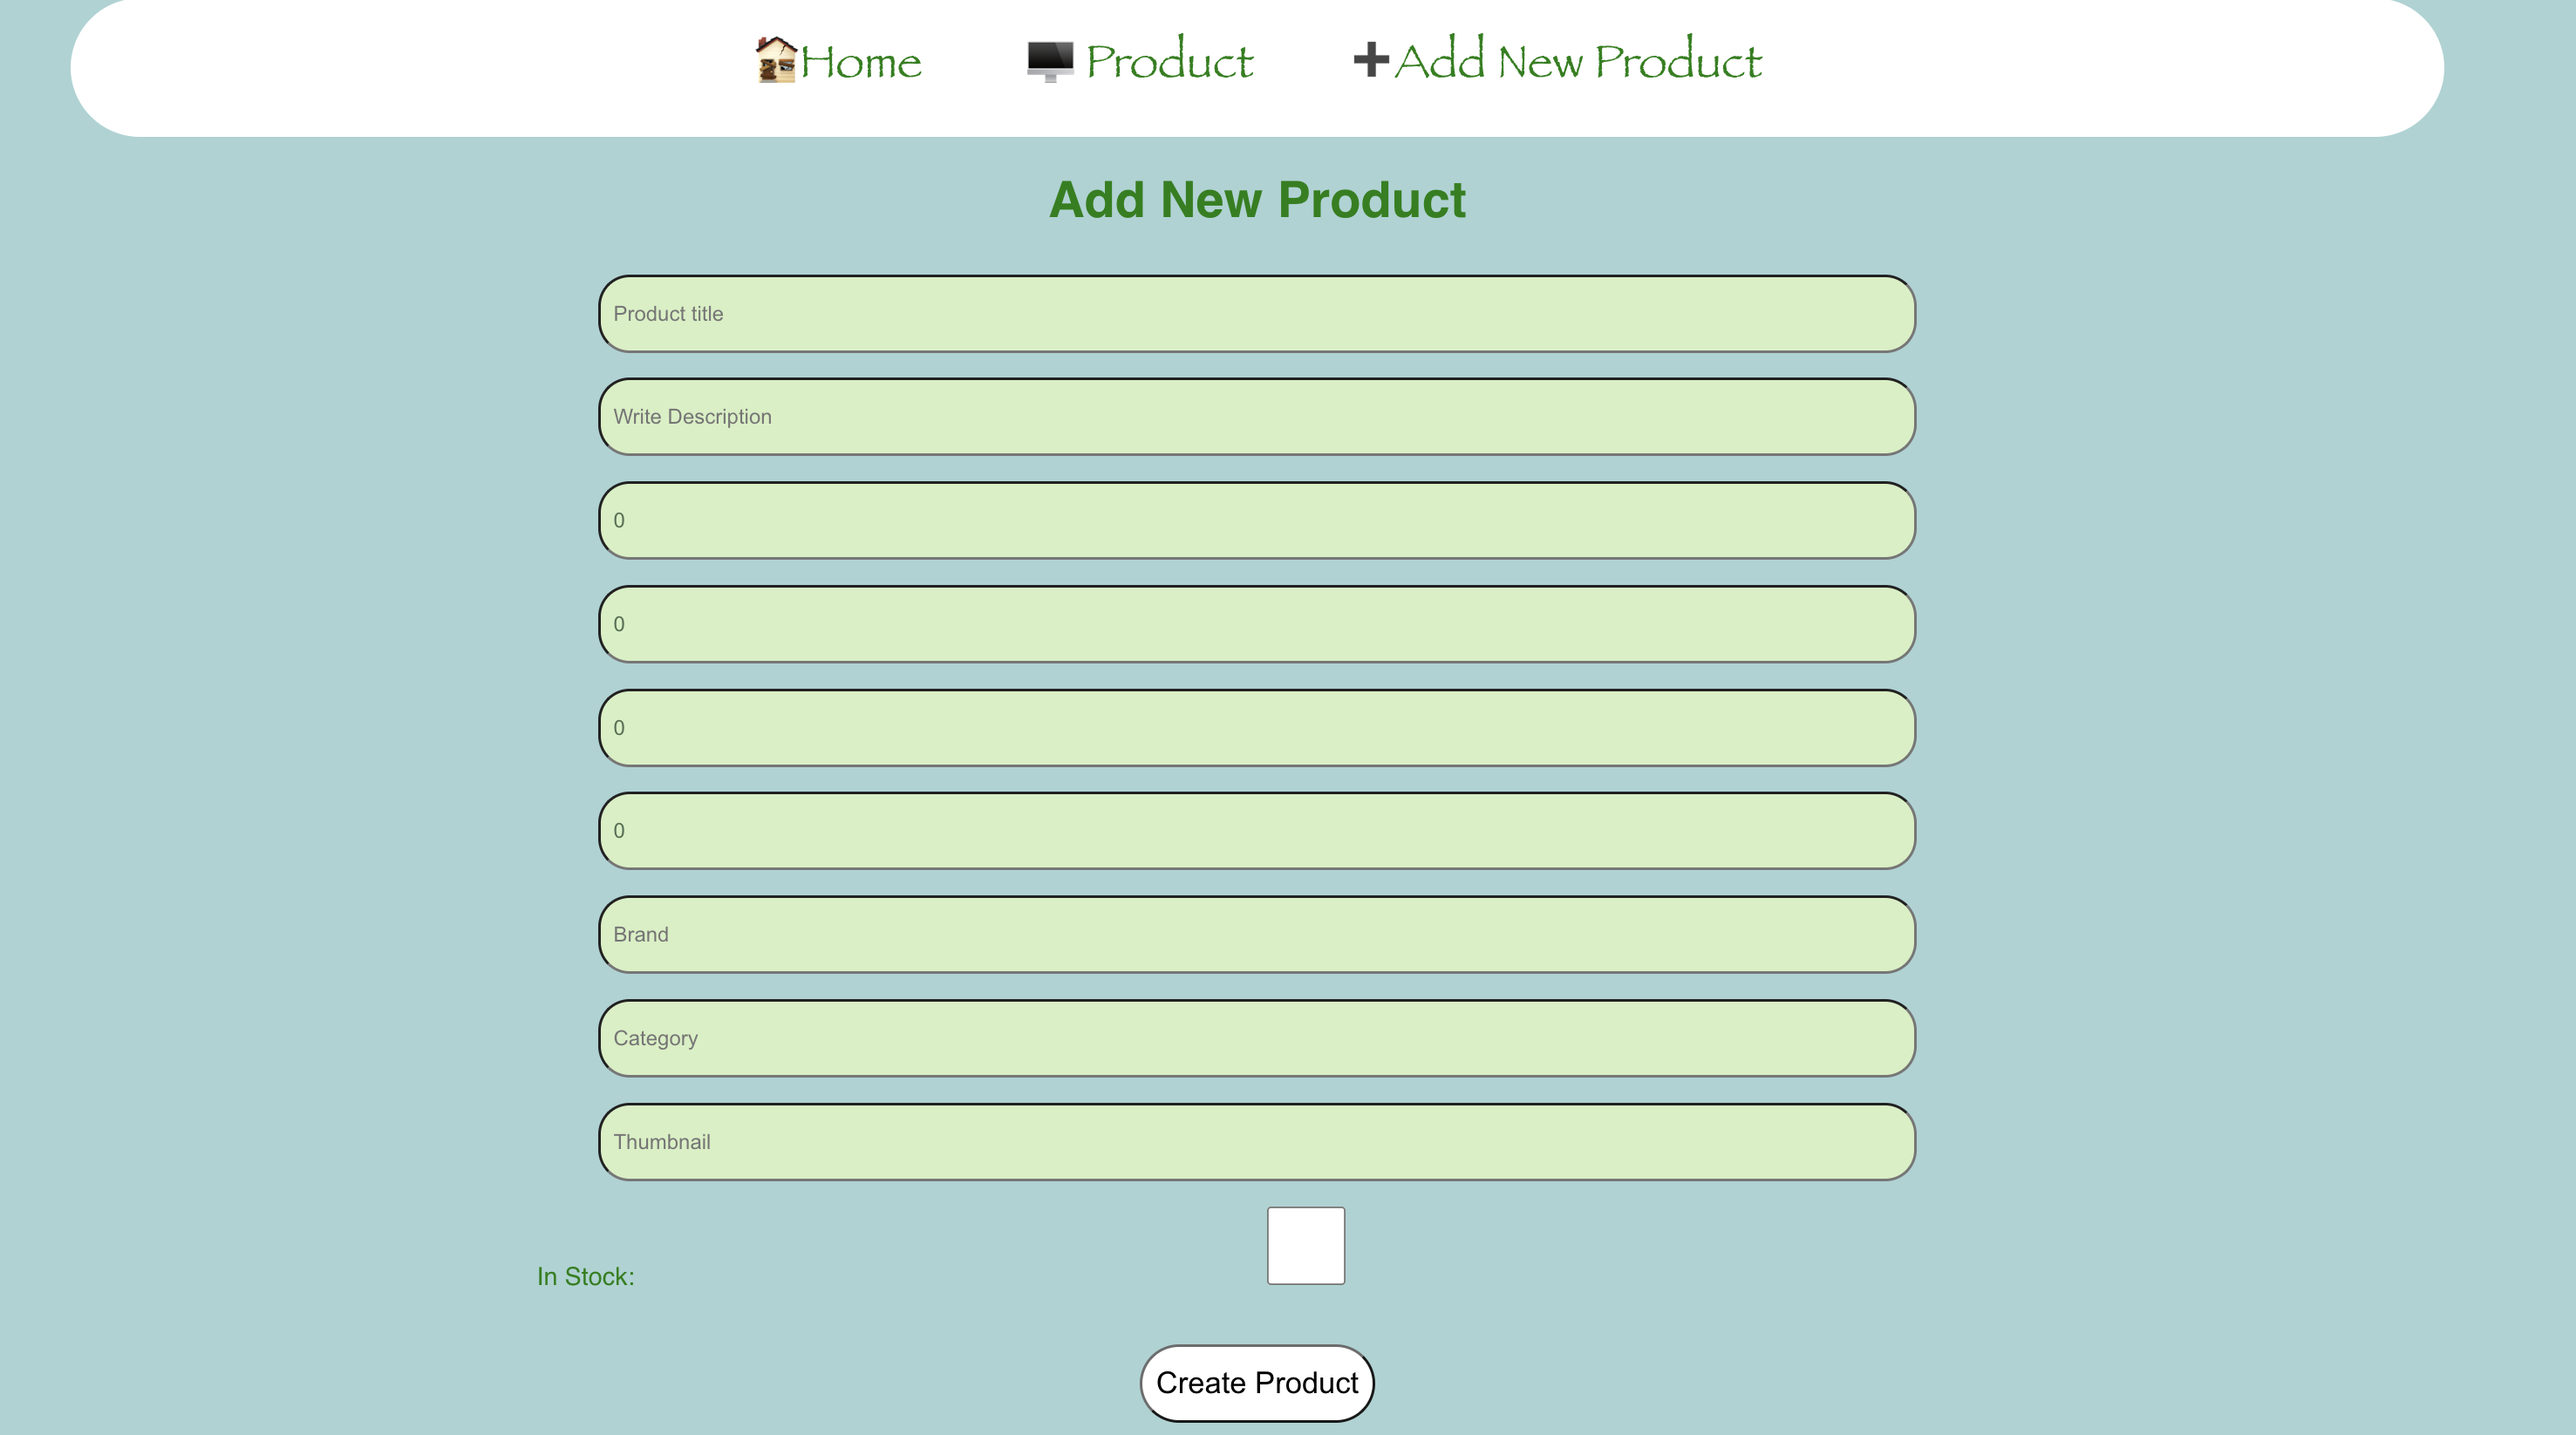
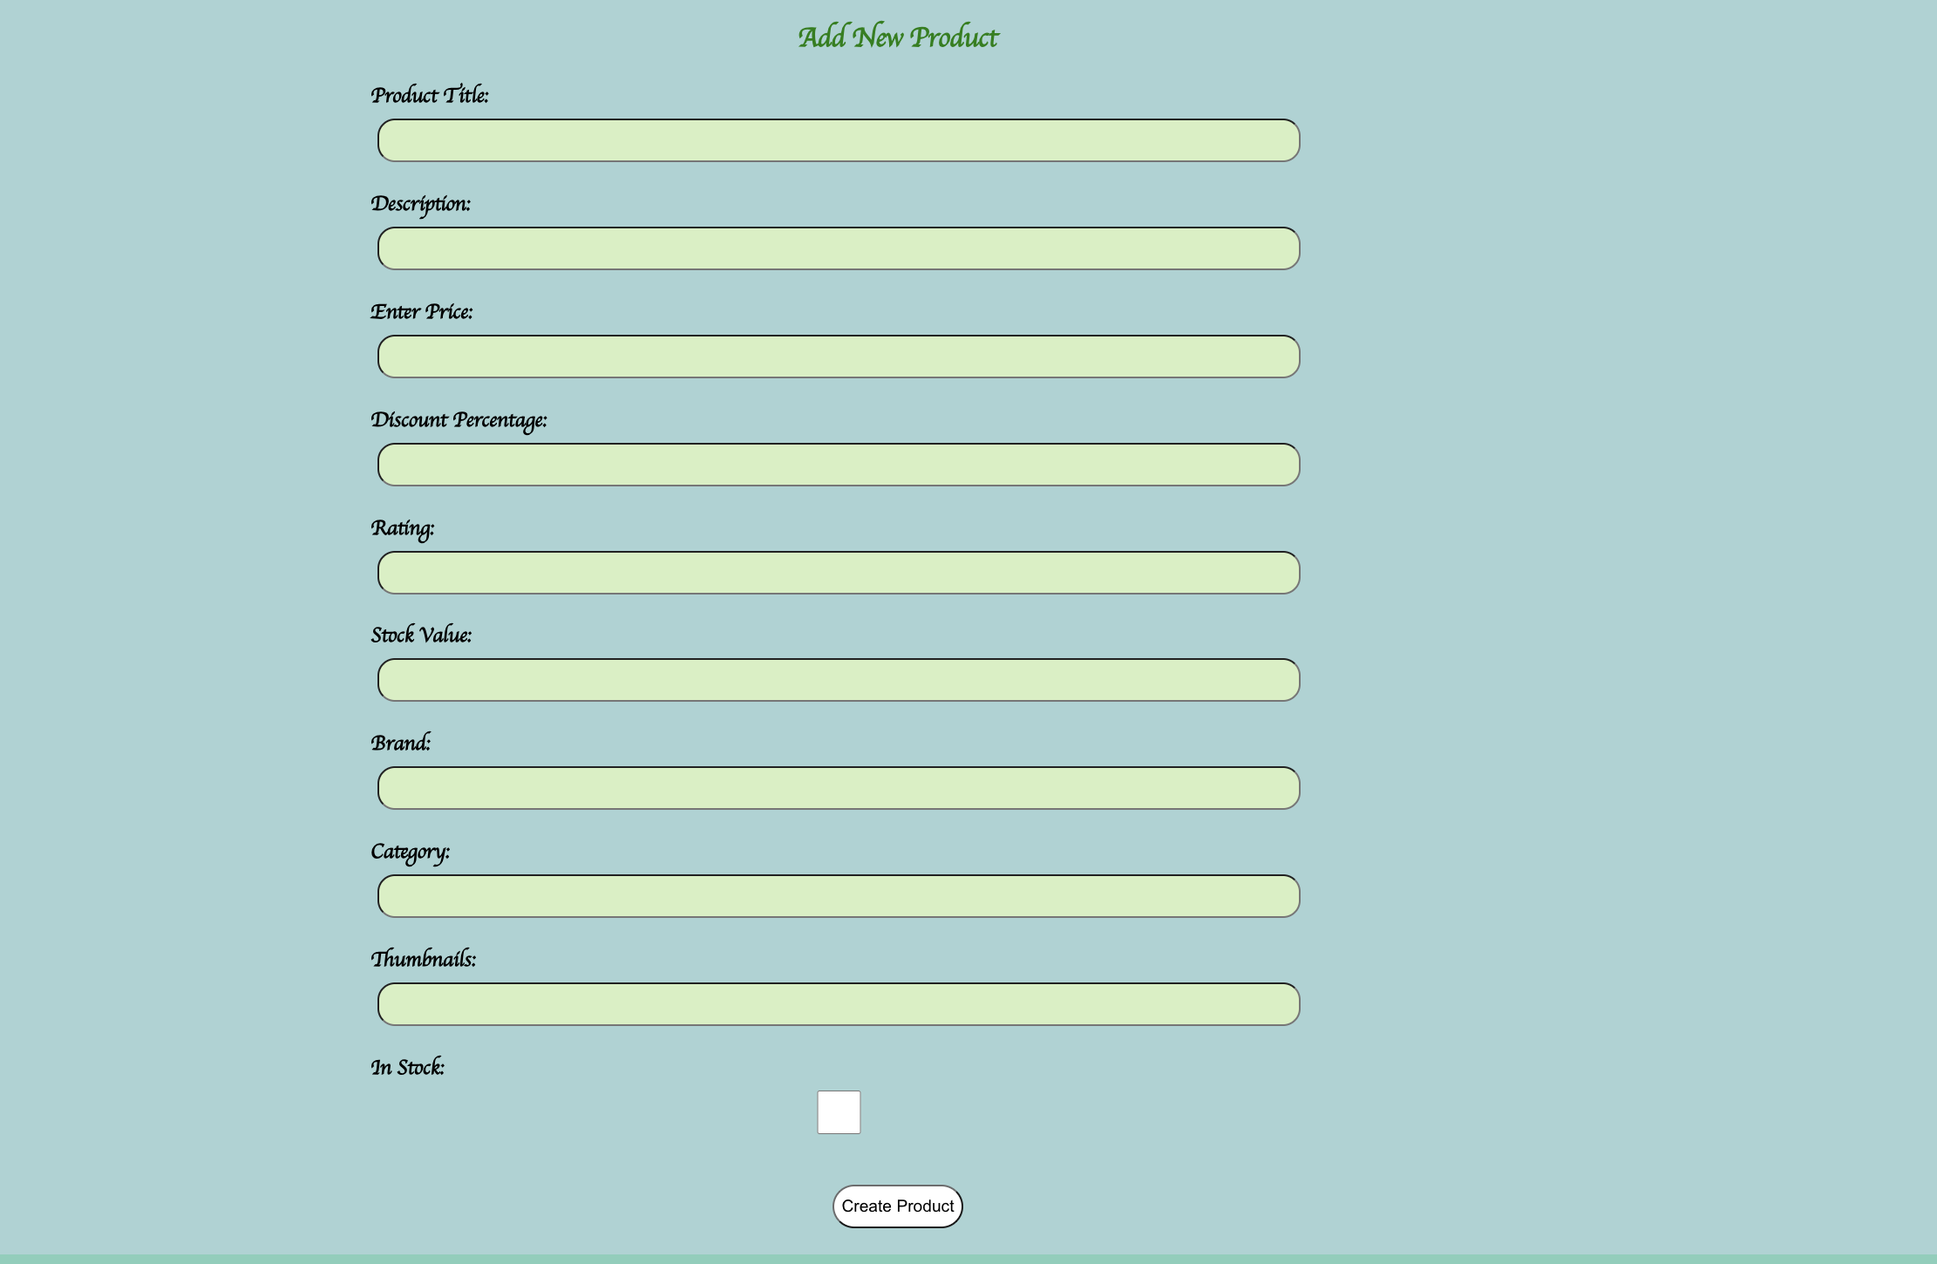
readme

diff --git a/src/screens/ProductCreate.jsx b/src/screens/ProductCreate.jsx
@@ -8,10 +8,10 @@ function ProductCreate() {
 
     title: "",
     description: "",
-    price: 0,
-    discountPercentage: 0,
-    rating: 0,
-    stock: 0,
+    price: "",
+    discountPercentage: "",
+    rating: "",
+    stock: "",
     brand: "",
     category: "",
     thumbnail: "",
@@ -48,69 +48,60 @@ function ProductCreate() {
     <div className="create-conatainer">
       <h1>Add New Product</h1>
       <form onSubmit={handleSubmit}>
-        <input 
+        <h2>Product Title:<input 
         type="text"
-        placeholder="Product title"
         name="title"
         value={product.title} 
         onChange={handleChange}
-        />
-        <input 
+        /></h2>
+        <h2>Description:<input 
         type="text"
-        placeholder="Write Description"
         name="description"
         value={product.description} 
         onChange={handleChange}
-        />
-        <input 
+        /></h2>
+        <h2>Enter Price:<input 
         type="number"
-        placeholder="Enter Price"
         name="price"
         value={product.price} 
         onChange={handleChange}
-        />
-        <input 
+        /></h2>
+        <h2>Discount Percentage:<input 
         type="number"
-        placeholder="Discount Percentage"
         name="discountPercentage"
         value={product.discountPercentage} 
         onChange={handleChange}
-        />
-          <input 
+        /></h2>
+          <h2>Rating:<input 
         type="number"
-        placeholder="rating"
         name="rating"
         value={product.rating} 
         onChange={handleChange}
-        />
-        <input 
+        /></h2>
+        <h2>Stock Value:<input 
         type="number"
-        placeholder="Stock"
         name="stock"
         value={product.stock} 
         onChange={handleChange}
-        />
-        <input 
+        /></h2>
+        <h2>Brand:<input 
         type="text"
-        placeholder="Brand"
         name="brand"
         value={product.brand} 
         onChange={handleChange}
-        />
-        <input 
+        /></h2>
+        <h2>Category:<input 
         type="text"
-        placeholder="Category"
         name="category"
         value={product.category} 
         onChange={handleChange}
-        />
-        <input 
+        /></h2>
+        <h2>Thumbnails:<input 
         type="text"
-        placeholder="Thumbnail"
         name="thumbnail"
         value={product.thumbnail} 
         onChange={handleChange}
-        />
+        /></h2>
         {/* <input 
         type="text"
         placeholder="Image"
@@ -119,14 +110,14 @@ function ProductCreate() {
         onChange={handleChange}
         /> */}
         <div>
-          <label htmlFor="stock-box">In Stock:
-        <input
+          <label className="stock-tik" htmlFor="stock-box">
+        <h2>In Stock:<input
         id="stock-box"
         type="checkbox"
         name="stock"
         checked={product.stock} 
         onChange={handleCheckboxChange}
-        />
+        /></h2>
           </label>
         </div>
 

diff --git a/src/App.css b/src/App.css
@@ -61,6 +61,7 @@ button {
 .products-container a {
     text-decoration: none;
     color: black;
+
 }
 
 .samples-container {
@@ -114,4 +115,22 @@ input {
 .details-container h1 {
     font-size: 30px;
     font-family: cursive;
+}
+h2{
+    display: flex;
+    color: #000000;
+    /* text-align: center; */
+    /* margin-right: 40px; */
+    flex-direction: column;
+    align-items: flex-start;
+    margin-left: 30%;
+    font-family: cursive;
+}
+
+h1 {
+    font-family: cursive;
+}
+.stock-tik {
+    flex-direction: column;
+    align-items: stretch;
 }

diff --git a/src/screens/ProductEdit.jsx b/src/screens/ProductEdit.jsx
@@ -86,12 +86,12 @@ function ProductEdit() {
         <input
           type="number"
           placeholder="rating"
-          name="Give Rating"
+          name="rating"
           value={product.rating}
           onChange={handleChange}
         />
         <input
-          type="type"
+          type="number"
           placeholder="Stock"
           name="stock"
           value={product.stock}

diff --git a/README.md b/README.md
@@ -1,7 +1,13 @@
+# Front-End Project
 
 ![Front-end](</screenshots/home.png>)
-# Products Catalog
+
+## Products Catalog
 Welcome to the front-end project for the Product Catalog! This application provides a user-friendly interface to interact with a product catalog, featuring a home page with random products, a product page displaying all products, and a page to add new products. Every product have a detail page, in detail page you can edit and delete the products.
+
+<!-- ## Introduction
+
+Explain briefly what your project is about and its purpose. Include information about the external back-end API that your front-end interacts with. -->
 
 ## Feature
 
